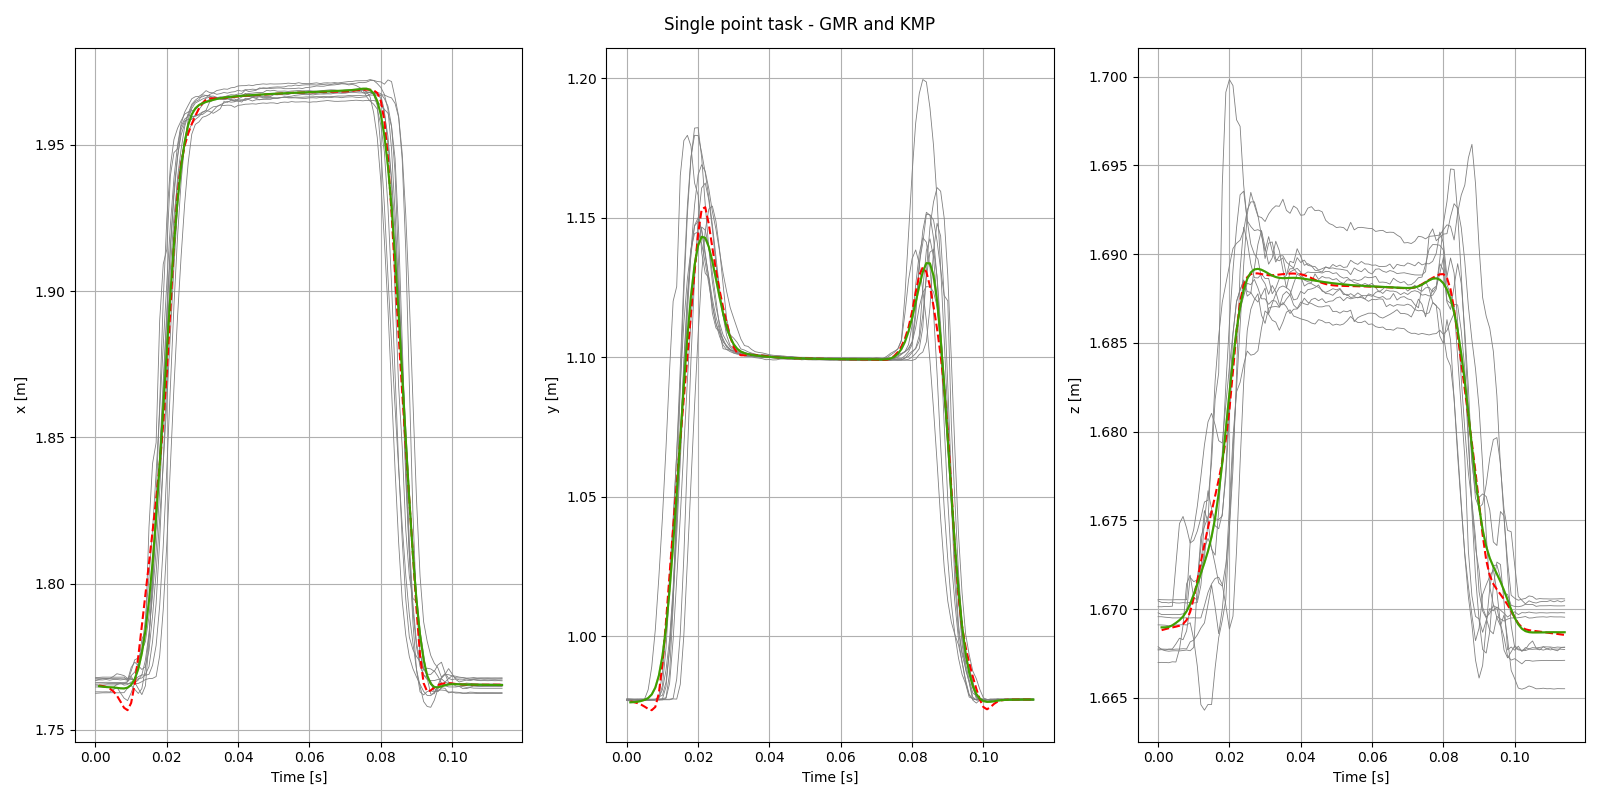
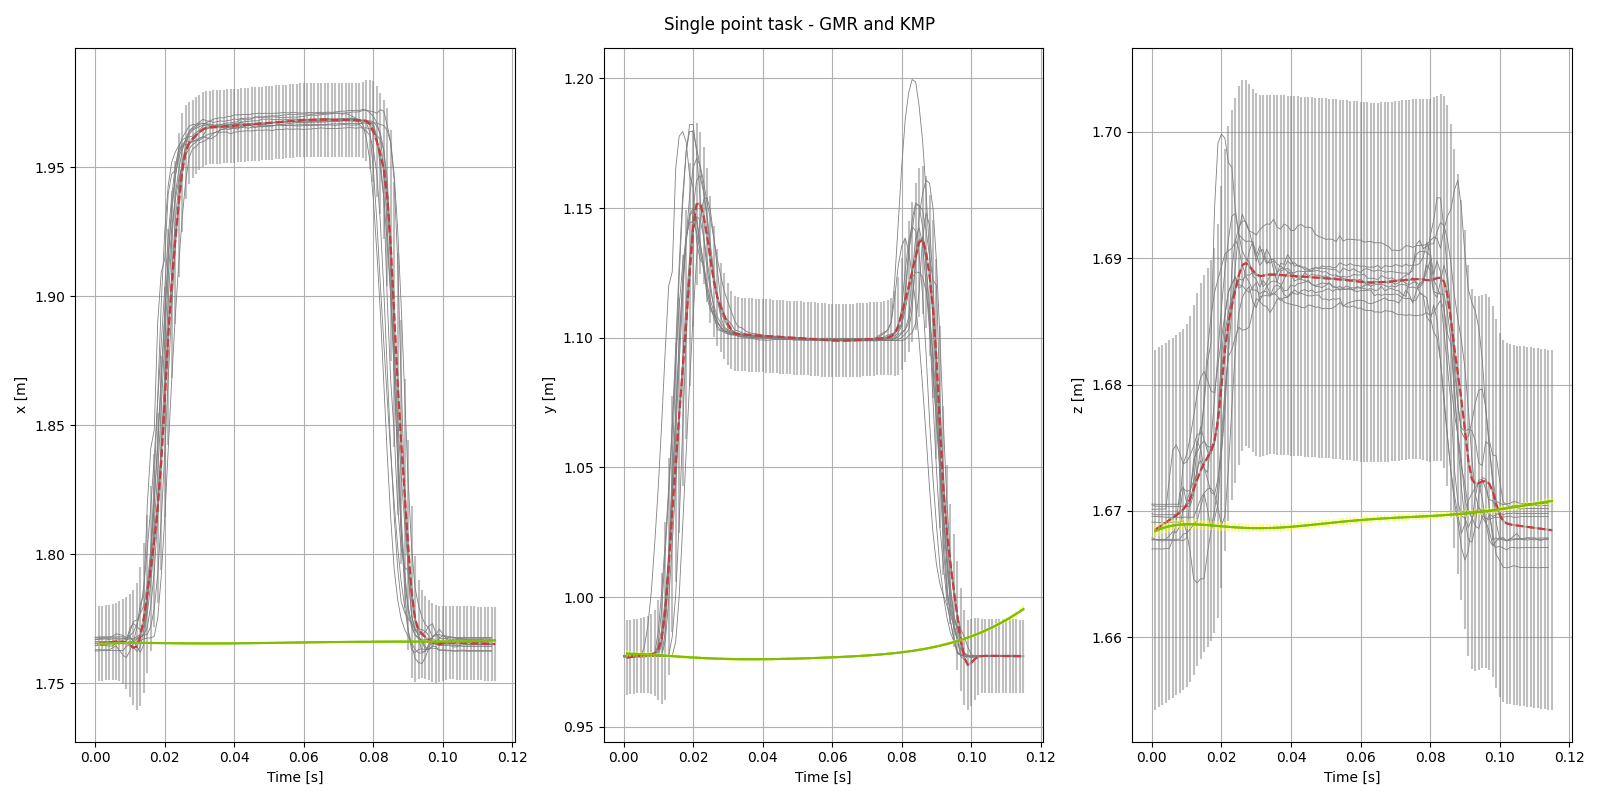
Sync progress

diff --git a/src/mixture/GaussianMixtureModel.py b/src/mixture/GaussianMixtureModel.py
@@ -104,7 +104,8 @@ class GaussianMixtureModel:
         self.n_demos_ = n_demos
         self.max_it = max_it
         self.tol = tol
-        self.reg_factor = reg_factor
+        self.init_diag_reg_factor = 1e-8
+        self.diag_reg_factor = 1e-4
         self.model_selection_tol = model_selection_tol
         self.rng = default_rng(random_state)
         self._logger = logging.getLogger(__name__)
@@ -134,18 +135,12 @@ class GaussianMixtureModel:
             # Univariate case
             X_cntr = X - mu
             pdf = X_cntr**2/sigma
-            try:
-                pdf = np.exp(-0.5*pdf)/np.sqrt(2*np.pi*np.abs(sigma))
-            except ZeroDivisionError:
-                pdf = np.exp(-0.5*pdf)/np.sqrt(2*np.pi*np.abs(sigma)+REALMIN)
+            pdf = np.exp(-0.5*pdf)/np.sqrt(2*np.pi*np.abs(sigma)+REALMIN)
         else:
             # Multivariate case
-            X_cntr = X - np.tile(mu, (self.n_demos_*self.n_samples_, 1)).T
-            pdf = np.sum(X_cntr.T@inv(sigma)*X_cntr.T, axis=1)
-            try:
-                pdf = np.exp(-0.5*pdf)/np.sqrt((2*np.pi) ** (self.n_features_)*np.abs(det(sigma)))
-            except ZeroDivisionError:
-                pdf = np.exp(-0.5*pdf)/np.sqrt((2*np.pi) ** (self.n_features_)*np.abs(det(sigma)) + REALMIN)
+            X_cntr = X.T - np.tile(mu.T, (self.n_demos_*self.n_samples_, 1))
+            pdf = np.sum(np.multiply(X_cntr@inv(sigma), X_cntr), axis=1)
+            pdf = np.exp(-0.5*pdf)/np.sqrt((2*np.pi) ** (self.n_features_)*np.abs(det(sigma)) + REALMIN)
         return pdf
 
     def __likelihood(self,
@@ -239,8 +234,7 @@ class GaussianMixtureModel:
                     # Compute priors, mean and the covariance matrix
                     priors[c] = len(ids)
                     means[:, c] = np.mean(X[:, ids].T, axis=0)
-                    covariances[:, :, c] = np.cov(
-                        X[:, ids]) + np.eye(self.n_features_)*self.reg_factor
+                    covariances[:, :, c] = np.cov(X[:, ids]) + np.eye(self.n_features_)*self.reg_factor
                 # Normalize the prior probabilities
                 priors = priors/np.sum(priors)
                 # Expectation-Maximization
@@ -250,10 +244,7 @@ class GaussianMixtureModel:
                     L = self.__likelihood(
                         X, covariances, means, priors, n_components)
                     # Pseudo posterior
-                    try:
-                        gamma = L/np.tile(np.sum(L, axis=0), (n_components, 1))
-                    except ZeroDivisionError:
-                        gamma = L/np.tile(np.sum(L, axis=0) + REALMIN, (n_components, 1))
+                    gamma = L/np.tile(np.sum(L, axis=0) + REALMIN, (n_components, 1))
                     gamma_mean = gamma / np.tile(np.sum(gamma, axis=1), (self.n_samples_*self.n_demos_, 1)).T
                     # Maximization step
                     for c in range(n_components):
@@ -283,19 +274,16 @@ class GaussianMixtureModel:
         # Setup the arrays for the priors, means and covariance matrices
         priors = np.zeros((self.n_components_))
         means = np.zeros((self.n_features_, self.n_components_))
-        covariances = np.zeros(
-            (self.n_features_, self.n_features_, self.n_components_))
+        covariances = np.zeros((self.n_features_, self.n_features_, self.n_components_))
         # Clusterization of the dataset
-        n_samples = int(X.shape[1]/self.n_demos_)
-        labels = np.tile((np.arange(n_samples)*self.n_components_/n_samples).astype(int), self.n_demos_)
+        labels = np.linspace(min(X[0,:]), max(X[0,:]), self.n_components_ + 1)
         # Initial guess for GMM
         for c in range(self.n_components_):
-            ids = [i for i, val in enumerate(labels) if val == c]
+            ids = [i for i, val in enumerate(X[0,:]) if val >= labels[c] and val < labels[c + 1]]
             # Compute priors, mean and the covariance matrix
             priors[c] = len(ids)
             means[:, c] = np.mean(X[:, ids].T, axis=0)
-            covariances[:, :, c] = np.cov(
-                X[:, ids]) + np.eye(self.n_features_)*self.reg_factor
+            covariances[:, :, c] = np.cov(X[:, ids]) + np.eye(self.n_features_)*self.diag_reg_factor
         # Normalize the prior probabilities
         priors = priors/np.sum(priors)
         # Expectation-Maximization
@@ -304,21 +292,18 @@ class GaussianMixtureModel:
             # Expectation step
             L = self.__likelihood(X, covariances, means, priors, self.n_components_)
             # Pseudo posterior
-            try:
-                gamma = L / np.tile(np.sum(L, axis=0), (self.n_components_, 1))
-            except ZeroDivisionError:
-                gamma = L / np.tile(np.sum(L, axis=0)+REALMIN, (self.n_components_, 1))
+            gamma = L / np.tile(np.sum(L, axis=0)+REALMIN, (self.n_components_, 1))
             gamma_mean = gamma / np.tile(np.sum(gamma, axis=1), (self.n_samples_*self.n_demos_, 1)).T
             # Maximization step
             for c in range(self.n_components_):
                 # Update priors
-                priors[c] = np.sum(gamma[c])/(self.n_samples_*self.n_demos_)
+                priors[c] = np.sum(gamma[c, :])/(self.n_samples_*self.n_demos_)
                 # Update mean
-                means[:, c] = X @ gamma_mean[c].T
+                means[:, c] = X @ gamma_mean[c, :].T
                 # Update covariance
-                X_cntr = X.T - np.tile(means[:, c], (self.n_samples_*self.n_demos_, 1))
-                sigma = X_cntr.T @ np.diag(gamma_mean[c]) @ X_cntr
-                covariances[:, :, c] = sigma + np.eye(self.n_features_)*self.reg_factor
+                X_cntr = X - np.tile(means[:, c], (self.n_samples_*self.n_demos_, 1)).T
+                sigma = X_cntr @ np.diag(gamma_mean[c, :]) @ X_cntr.T
+                covariances[:, :, c] = sigma + np.eye(self.n_features_)*self.diag_reg_factor
             # Average log likelihood
             LL[it] = np.mean(np.log(np.sum(L, axis=0)))
             # Check convergence
@@ -350,40 +335,27 @@ class GaussianMixtureModel:
         covariances : array-like of shape (n_input_features, n_input_features, n_samples)
             The array of covariance matrices.
         """
-        # Get the indexes of the input- and output-related quantities
-        I = X.shape[0]
         N = X.shape[1]
-        ts = list(range(I))  # Input indexes
-        s = list(range(I, self.covariances_.shape[0]))  # Output indexes
         # Setup the output arrays
-        means = np.zeros((len(s), N))
-        covariances = np.zeros((len(s), len(s), N))
+        means = np.zeros((self.n_output_features_, N))
+        covariances = np.zeros((self.n_output_features_, self.n_output_features_, N))
         # Perform regression
-        mu_tmp = np.zeros((len(s), self.n_components_))
-        beta = np.zeros((self.n_components_, N))
-        for i in range(N):
-            for t in ts:  # If the input is multidimensional, repeat the procedure for each dimension
-                # Compute posteriors (Calinon eq. 11)
-                for c in range(self.n_components_):
-                    beta[c, i] = self.priors_[
-                        c]*self.__pdf(X[t, i], self.covariances_[t, t, c], self.means_[t, c])
-                # Normalize
-                try:
-                    beta[:, i] = beta[:, i]/np.sum(beta[:, i])
-                except ZeroDivisionError:
-                    beta[:, i] = beta[:, i]/np.sum(beta[:, i]+REALMIN)
-                # Compute conditional means (Calinon eq. 10)
-                for c in range(self.n_components_):
-                    mu_tmp[:, c] = self.means_[s, c] + self.covariances_[s, t,
-                                                                         c]*(X[t, i]-self.means_[t, c])/self.covariances_[t, t, c]
-                    means[:, i] = means[:, i] + beta[c, i]*mu_tmp[:, c]
-                # Compute conditional covariances (Calinon eq. 10)
-                for c in range(self.n_components_):
-                    gmr_sigma = self.covariances_[np.ix_(s, s, [c])][:, :, 0] - (np.reshape(self.covariances_[
-                        s, t, c], (len(s), 1))/self.covariances_[t, t, c])*self.covariances_[t, s, c]
-                    covariances[:, :, i] = covariances[:, :, i] + \
-                        (beta[c, i]**2)*gmr_sigma
-                reg_factor = np.eye(len(s))*self.reg_factor
-                covariances[:, :, i] = covariances[:, :, i] + reg_factor
+        mu_tmp = np.zeros((self.n_output_features_, self.n_components_))
+        sigma_tmp = np.zeros((self.n_output_features_, self.n_output_features_, self.n_components_))
+        H = np.zeros((self.n_components_, N))
+        for t in range(N):
+            # Activation weight
+            for i in range(self.n_components_):
+                H[i, t] = self.priors_[i] * self.__pdf(X[:,t], self.covariances_[0,0,i], self.means_[0, i])
+            H[:,t] = H[:,t]/np.sum(H[:,t] + REALMIN)
+            # Conditional means
+            for i in range(self.n_components_):
+                mu_tmp[:,i] = self.means_[1:,i] + self.covariances_[1:,0,i]/self.covariances_[0,0,i] * (X[:,t]-self.means_[0,i])
+                means[:,t] += H[i,t]*mu_tmp[:,i]
+            # Conditional covariances
+            for i in range(self.n_components_):
+                sigma_tmp = self.covariances_[1:,1:,i]-self.covariances_[1:,0,i]/self.covariances_[0,0,i]*self.covariances_[0,1:,i]
+                covariances[:,:,t] += H[i,t]*(sigma_tmp + np.outer(mu_tmp[:,i],mu_tmp[:,i]))
+            covariances[:,:,t] += np.eye(self.n_output_features_)*self.diag_reg_factor - np.outer(means[:,t],means[:,t])
         self._logger.info('GMR done')
         return means, covariances

diff --git a/src/kmp/KMP.py b/src/kmp/KMP.py
@@ -18,38 +18,29 @@ class KMP:
 
     Parameters
     ----------
-    lambda1 : int, default=0.5
-        Lambda regularization factor for the mean minimization problem.
-    lambda2 : float, default=0.5
-        Lambda regularization factor for the covariance minimization problem.
+    l : int, default=0.5
+        Lambda regularization factor for the minimization problem.
     alpha : float, default=40
         Coefficient for the covariance prediction.
     sigma_f : float, default=1
         Kernel coefficient.
     tol : float, default=0.0005
         Tolerance for the discrimination of conflicting points.
-    priorities : array-like of shape (n_trajectories,), default=None
-        Functions that map the input space into a priority value for trajectory superposition. The 
-        sum of all priority functions evaluated in the same (any) input must be one.
     verbose : bool
         Enable/disable verbose output.
     """
 
     def __init__(self,
-                 lambda1: float = 0.5,
-                 lambda2: float = 0.5,
+                 l: float = 0.5,
                  alpha: float = 40,
                  sigma_f: float = 1.0,
                  tol: float = 0.0005,
-                 priorities: ArrayLike = None,
                  verbose: bool = False) -> None:
         self.trained = False
-        self.lambda1 = lambda1
-        self.lambda2 = lambda2
+        self.l = l
         self.alpha = alpha
         self.sigma_f = sigma_f
         self.tol = tol
-        self.priorities = priorities
         self.kl_divergence = None
         self._logger = logging.getLogger(__name__)
         self._logger.setLevel(level=logging.DEBUG if verbose else logging.INFO)
@@ -128,7 +119,7 @@ class KMP:
 
     def fit(self,
             X: ArrayLike,
-            Y: ArrayLike,
+            mu: ArrayLike,
             var: ArrayLike) -> None:
         """"Train" the model by computing the estimator matrices for the mean (K+lambda*sigma)^-1 and 
         for the covariance (K+lambda_c*sigma)^-1. 
@@ -143,24 +134,22 @@ class KMP:
             Array of covariance matrices
         """
         self.s = X.copy()
-        self.xi = Y.copy()
+        self.xi = mu.copy()
         self.sigma = var.copy()
         self.O = self.xi.shape[0]
         self.N = self.xi.shape[1]
-        k_mean = np.zeros((self.N*self.O, self.N*self.O))
-        k_covariance = np.zeros((self.N*self.O, self.N*self.O))
+        k = np.zeros((self.N*self.O, self.N*self.O))
         # Construct the estimators
         for i in range(self.N):
             for j in range(self.N):
                 kernel = self.__kernel_matrix(self.s[:, i], self.s[:, j])
-                k_mean[i*self.O:(i+1)*self.O, j*self.O:(j+1)*self.O] = kernel
-                k_covariance[i*self.O:(i+1)*self.O, j * self.O:(j+1)*self.O] = kernel
+                k[i*self.O:(i+1)*self.O, j*self.O:(j+1)*self.O] = kernel
                 if i == j:
                     # Add the regularization terms on the diagonal
-                    k_mean[j*self.O:(j+1)*self.O, i*self.O:(i+1) * self.O] = kernel + self.lambda1*self.sigma[:, :, i]
-                    k_covariance[j*self.O:(j+1)*self.O, i*self.O:(i+1) * self.O] = kernel + self.lambda2*self.sigma[:, :, i]
-        self.__mean_estimator = np.linalg.inv(k_mean)
-        self.__covariance_estimator = np.linalg.inv(k_covariance)
+                    a = self.l*self.sigma[:, :, i]
+                    k[j*self.O:(j+1)*self.O, i*self.O:(i+1) * self.O] += self.l*self.sigma[:, :, i]
+        self._estimator = np.linalg.inv(k)
+        a = 0
 
     def predict(self, s: ArrayLike) -> Tuple[ArrayLike, ArrayLike]:
         """Carry out a prediction on the mean and covariance associated to the given input.
@@ -188,8 +177,8 @@ class KMP:
                   self.O] = self.__kernel_matrix(s[:, j], self.s[:, i])
                 for h in range(self.O):
                     Y[i*self.O+h] = self.xi[h, i]
-            xi[:, j] = k@self.__mean_estimator@Y
-            sigma[:, :, j] = self.alpha*(self.__kernel_matrix(s[:, j], s[:, j]) - k@self.__covariance_estimator@k.T)
+            xi[:, j] = k@self._estimator@Y
+            sigma[:, :, j] = self.alpha*(self.__kernel_matrix(s[:, j], s[:, j]) - k@self._estimator@k.T)
         self.kl_divergence = self.KL_divergence(self.xi, xi)
         self._logger.info(f'KMP Done. KL : {self.kl_divergence}')
         return xi, sigma

diff --git a/samples/fixed_kmp.py b/samples/fixed_kmp.py
@@ -10,6 +10,8 @@ from src.datatypes import Quaternion
 from src.mixture import GaussianMixtureModel
 from src.kmp import KMP
 
+from matplotlib.patches import Ellipse
+
 # Set up logging
 logging.basicConfig(
     level=logging.INFO,
@@ -28,8 +30,8 @@ def main():
     H = len(datasets)  # Number of demonstrations
     N = len(datasets[0]) // subsample  # Length of each demonstration
     dt = 0.1
-    x = dt*np.arange(1, N + 1).reshape(1, -1)
-    X = dt*np.tile(np.arange(N + 1), H).reshape(1, -1)
+    x = dt*np.arange(1, N + 2).reshape(1, -1)
+    X = np.tile(x, H).reshape(1, -1)
     Y_pos = np.vstack([p.position for dataset in datasets for p in dataset[::subsample]]).T
     positions = np.split(copy.deepcopy(Y_pos), 10, axis=1)
     for position in positions:
@@ -42,23 +44,25 @@ def main():
     gmm = GaussianMixtureModel(n_demos=H, n_components=10)
     gmm.fit(X, Y)
     mu_pos, sigma_pos = gmm.predict(x)
+    test = np.transpose(sigma_pos, (2,0,1))
     # KMP on the position
-    dt = 0.01
-    x = dt*np.arange(1, N + 1).reshape(1, -1)
-    kmp = KMP(lambda1=0.5, lambda2=0.5, alpha=40, sigma_f=1, verbose=True)
+    kmp = KMP(l=0.5, alpha=40, sigma_f=1, verbose=True)
     kmp.fit(x, mu_pos, sigma_pos)
+    dt = 0.01
+    x = dt*np.arange(1, N + 2).reshape(1, -1)
     mu_pos_kmp, sigma_pos_kmp = kmp.predict(x) 
     # Plot everything
     fig, ax = plt.subplots(1, 3, figsize=(16,8))
     for dataset in datasets:
         plot_demo(ax, dataset[::subsample])
     dt = 0.001
-    t = dt*np.arange(1, N + 1).reshape(1, -1).flatten()
+    t = dt*np.arange(1, N + 2).reshape(1, -1).flatten()
     for i in range(3):
         # GMR
+        ax[i].errorbar(x=t, y=mu_pos[i, :], yerr=np.sqrt(sigma_pos[i,i,:]), color='grey', alpha=0.5)
         ax[i].plot(t, mu_pos[i, :], color='red', linestyle='dashed')
         # KMP
-        ax[i].errorbar(x=t, y=mu_pos_kmp[i, :], yerr=np.abs(sigma_pos_kmp[i,i,:]), color='yellow', alpha=0.25)
+        ax[i].errorbar(x=t, y=mu_pos_kmp[i, :], yerr=np.abs(sigma_pos_kmp[i,i,:]), color='yellow', alpha=0.5)
         ax[i].plot(t, mu_pos_kmp[i, :], color='green')
     fig.suptitle('Single point task - GMR and KMP')
     fig.tight_layout()
@@ -80,6 +84,7 @@ def plot_demo(ax, demonstration, linestyle='solid', label=''):
         ax[j].set_ylabel(y_labels[j])
         ax[j].grid(True)
         ax[j].set_xlabel('Time [s]')
+
 
 
 if __name__ == '__main__':
